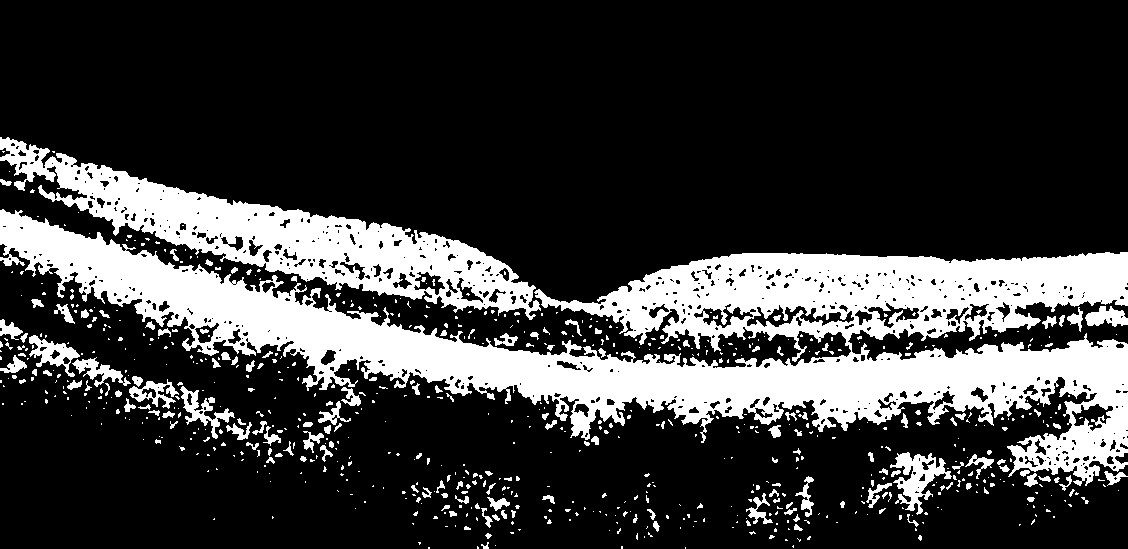
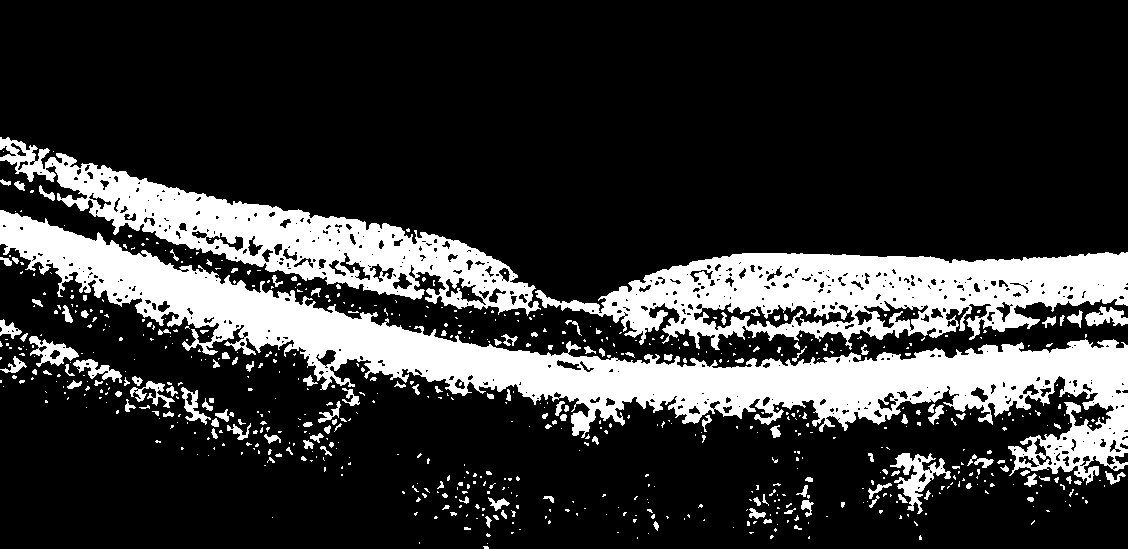
threshhold

diff --git a/1. Exercise/FCNs_1_3.py b/1. Exercise/FCNs_1_3.py
@@ -21,17 +21,16 @@ def Sobel_kernel(img):
     
     return sobel
 
-def Img_Gradient(sobel,thresh=(0, 65535)):
+def Img_Gradient(sobel,thresh=(25000, 30000)):
     
     mag = np.sqrt((sobel[0] ** 2) + (sobel[1] ** 2))
     
     scale_factor = np.max(mag)/65535
     mag = (mag/scale_factor).astype(np.uint16) 
-    # create a binary image of ones where threshold is met, zeros otherwise
-    binary_output = np.zeros_like(mag)
-    binary_output[(mag >= thresh[0]) & (mag <= thresh[1])] = 1
-    # return the binary image
+ 
+    #Threshhold
+    ret,thresh2 = cv2.threshold(mag,thresh[0],thresh[1],cv2.THRESH_BINARY)
     cv2.imwrite('Gradiant_Magnetut.tif', mag)
-    cv2.imwrite('Gradiant_Magnetut_Threshhold.tif', binary_output)
-    return binary_output
+    cv2.imwrite('Gradiant_Magnetut_Threshhold.tif', thresh2)
+    #return binary_output
     return mag

diff --git a/1. Exercise/main.py b/1. Exercise/main.py
@@ -70,7 +70,7 @@ Sobel_Filter = Sobel_kernel(Normalized_Img)
 
 #3.2 Image Gradient
 #Sobel_Array = np.array(Sobel_Filter)
-G=Img_Gradient(Sobel_Filter)
+G=Img_Gradient(Sobel_Filter,thresh=(21000 , 65535))
 """
 #3.3 Treshhold and most prominent boundries in the image
 Threshold_boundries()
